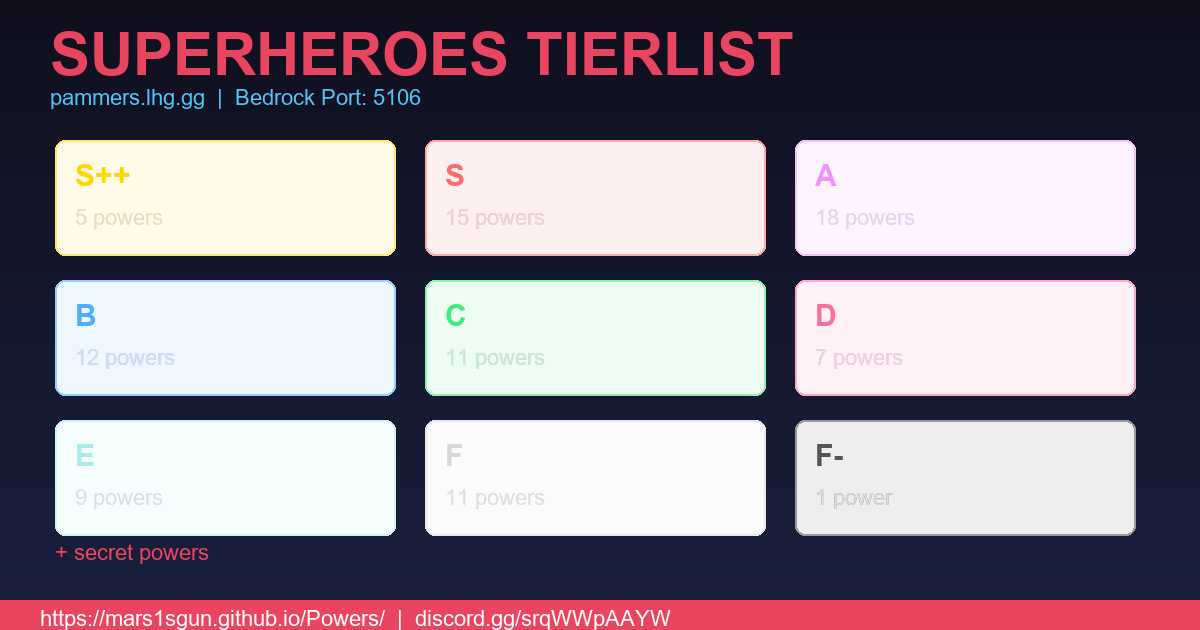
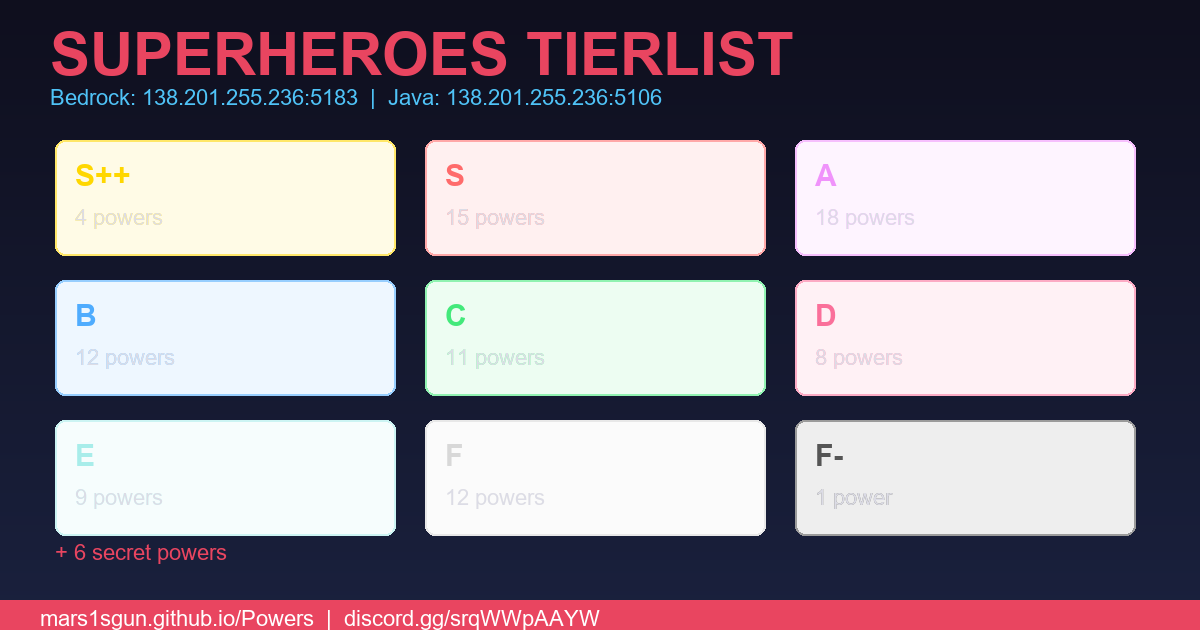
Auto-update from bot

diff --git a/index.html b/index.html
@@ -77,7 +77,7 @@ footer a{color:#b388ff;text-decoration:underline}
 <header>
 <h1>SUPERHEROES TIERLIST</h1>
 <p>All powers ranked — click a tier to expand/collapse</p>
-<p style="margin-top:.5rem;font-size:.9rem;color:#4fc3f7">Bedrock: <b>pammers.lhg.gg</b> port <b>5106</b> &nbsp;|&nbsp; Java: <b>pammers.lhg.gg:5106</b></p>
+<p style="margin-top:.5rem;font-size:.9rem;color:#4fc3f7">Bedrock: <b>138.201.255.236</b> port <b>5183</b> &nbsp;|&nbsp; Java: <b>138.201.255.236:5106</b></p>
 </header>
 <div class="container" id="app"></div>
 <footer>Built by 1sGun &middot; join the discord <a href="https://discord.gg/srqWWpAAYW" target="_blank">https://discord.gg/srqWWpAAYW</a></footer>
@@ -85,11 +85,10 @@ footer a{color:#b388ff;text-decoration:underline}
 
 const TIERS = [
   { id: "spp", label: "S++", item: "DEEPSLATE_EMERALD_ORE", heroes: [
-    { name: "Tank", desc: "Reinforce yourself and repair all your gear.", howto: "Sneak (120s cd)", effects: "Resistance III, Absorption III, full repair", obtain: "Craft S++ PowerShard (8 amethyst + Deepslate Emerald Ore) & right-click to reroll.", chance: "36.4%" },
-    { name: "Timeweaver", desc: "Stop time and teleport through space.", howto: "Left-click (5s cd) / Sneak (60s cd)", effects: "Teleport 30 blocks, Time Stop 15s", obtain: "Craft S++ PowerShard (8 amethyst + Deepslate Emerald Ore) & right-click to reroll.", chance: "9.1%" },
-    { name: "Swiper", desc: "Shift-click a player to steal their power for 60s! S++ tier.", howto: "Sneak + right-click target player (180s cd, 120s with TempU)", effects: "Steal target's hero (60s), target becomes Powerless. Reverts after expiry.", obtain: "Craft S++ PowerShard (8 amethyst + Deepslate Emerald Ore) & right-click to reroll.", chance: "9.1%" },
-    { name: "Airbender", desc: "Master of the skies! Infinite double jump, no fall damage, wind powers.", howto: "Infinite double jump (space mid-air), no fall damage. Sprint for wind boost. Right-click Stick: Air Blast (1s) / Tornado (20s) / Wind Shield (15s). TempU: +Airburst stick, halved cooldowns, bigger/longer tornado", effects: "N/A", obtain: "Craft S++ PowerShard (8 amethyst + Deepslate Emerald Ore) & right-click to reroll.", chance: "27.3%" },
-    { name: "Ichigo", desc: "You are Ichigo Kurosaki, a Soul Reaper from Karakura Town!", howto: "Zangetsu Stick: RC=slash, Sneak+RC=Getsuga Tensho. Hollowfication Stick: RC=toggle (hunger drain). Bankai Stick: RC=activate. RC Cero while Hollow. Horn of Salvation, True Bankai, Final Getsuga Tensho. All forms have hunger drain & timed duration.", effects: "Zangetsu melee (8 dmg), Getsuga Tensho projectile (10 dmg), Hollowfication (Speed+Strength), Bankai (more dmg+speed), Horn (Strength V+Resistance IV), True Bankai (double reach), FGT (half enemy HP). TempU: halved hunger drain, extended forms.", obtain: "Craft S++ PowerShard (8 amethyst + Deepslate Emerald Ore) & right-click to reroll.", chance: "18.2%" },
+    { name: "Tank", desc: "Reinforce yourself and repair all your gear.", howto: "Sneak (120s cd)", effects: "Resistance III, Absorption III, full repair", obtain: "Craft S++ PowerShard (8 amethyst + Deepslate Emerald Ore) & right-click to reroll.", chance: "25.0%" },
+    { name: "Timeweaver", desc: "Stop time and teleport through space.", howto: "Left-click (5s cd) / Sneak (60s cd)", effects: "Teleport 30 blocks, Time Stop 15s", obtain: "Craft S++ PowerShard (8 amethyst + Deepslate Emerald Ore) & right-click to reroll.", chance: "25.0%" },
+    { name: "Swiper", desc: "Shift-click a player to steal their power for 60s! S++ tier.", howto: "Sneak + right-click target player (180s cd, 120s with TempU)", effects: "Steal target's hero (60s), target becomes Powerless. Reverts after expiry.", obtain: "Craft S++ PowerShard (8 amethyst + Deepslate Emerald Ore) & right-click to reroll.", chance: "25.0%" },
+    { name: "Airbender", desc: "Master of the skies! Infinite double jump, no fall damage, wind powers.", howto: "Infinite double jump (space mid-air), no fall damage. Sprint for wind boost. Right-click Stick: Air Blast (1s) / Tornado (20s) / Wind Shield (15s). TempU: +Airburst stick, halved cooldowns, bigger/longer tornado", effects: "N/A", obtain: "Craft S++ PowerShard (8 amethyst + Deepslate Emerald Ore) & right-click to reroll.", chance: "25.0%" },
   ]},
   { id: "s", label: "S", item: "NETHER_STAR", heroes: [
     { name: "Homelander", desc: "Fly through the skies and blast foes with laser vision and fireballs!", howto: "Jetpack (hold jump) + Right-click Redstone Block", effects: "Flight, Speed II, Strength II, Resistance II, Laser (6 dmg), Fireballs, X-ray", obtain: "Craft Legendary PowerShard (8 amethyst + Nether Star) & right-click to reroll.", chance: "3.6%" },
@@ -125,8 +124,8 @@ const TIERS = [
     { name: "Flashbang", desc: "Blind nearby players.", howto: "Sneak (60s cd)", effects: "AoE Blindness (20 blocks)", obtain: "Craft A PowerShard (8 amethyst + Diamond Block) & right-click to reroll.", chance: "10.0%" },
     { name: "Benson", desc: "Fly like Tinkerbell! Disabled for 5s on hit or when you hit someone.", howto: "Passive", effects: "Flight, disabled by Slowness II + Weakness V + Blindness for 5s on PvP.", obtain: "Craft A PowerShard (8 amethyst + Diamond Block) & right-click to reroll.", chance: "5.3%" },
     { name: "TheCrippler", desc: "Sneak to disable all powers within 15 blocks for 60s! A tier.", howto: "Sneak to trigger (180s cd, 120s with TempU)", effects: "AoE 15 blocks: all players set to Powerless (60s). Reverts after expiry.", obtain: "Craft A PowerShard (8 amethyst + Diamond Block) & right-click to reroll.", chance: "5.3%" },
-    { name: "TheCombo", desc: "Hit AND get hit to stack +atk and -def — 1s window!", howto: "Passive — hitting and getting hit builds combo", effects: "+10% atk per hit, -10% def per hit taken (1s window). TempU: 0.5s window, 2x multiplier.", obtain: "Craft A PowerShard (8 amethyst + Diamond Block) & right-click to reroll.", chance: "5.3%" },
-    { name: "Sacrifice", desc: "Kill to heal — and convert items into totems!", howto: "Passive — kills heal below 20 HP. Sneak with item: sacrifice 1 for 1 totem (60s cd, 30s TempU).", effects: "Kill heal, item-to-totem conversion. TempU: halved cooldown.", obtain: "Craft A PowerShard (8 amethyst + Diamond Block) & right-click to reroll.", chance: "5.3%" },
+    { name: "TheCombo", desc: "Hit AND get hit to stack both atk and def - 1s window!", howto: "Passive - hitting AND getting hit builds combo for both +atk and -def", effects: "+atk per hit, -def per hit taken (1s window). TempU: 0.5s, 2x multiplier.", obtain: "Craft A PowerShard (8 amethyst + Diamond Block) & right-click to reroll.", chance: "5.3%" },
+    { name: "Sacrifice", desc: "Kill to heal - convert items into totems!", howto: "Passive - kills heal below 20 HP. Sneak with item to sacrifice for totem (60s cd, 30s TempU).", effects: "Kill heal below 20 HP. Sneak with item = 1 totem (60s cd, 30s TempU).", obtain: "Craft A PowerShard (8 amethyst + Diamond Block) & right-click to reroll.", chance: "5.3%" },
   ]},
   { id: "b", label: "B", item: "GOLD_BLOCK", heroes: [
     { name: "SizeShift", desc: "Shrink or grow at will!", howto: "Right-click Amethyst Shard to shrink — Right-click Emerald to grow (30s duration)", effects: "Shrink: 0.25x scale, fast speed/attacks. Grow: 1.5x scale, +6 dmg, slow speed/attacks", obtain: "Craft B PowerShard (8 amethyst + Gold Block) & right-click to reroll.", chance: "8.5%" },
@@ -139,8 +138,8 @@ const TIERS = [
     { name: "GravitySucker", desc: "Control gravity.", howto: "Passive sneaking", effects: "Levitation, Slow falling, Repulse", obtain: "Craft B PowerShard (8 amethyst + Gold Block) & right-click to reroll.", chance: "8.5%" },
     { name: "Sucker", desc: "You suck everything.", howto: "Sneak", effects: "Attract (-0.8x, 3.4 radius)", obtain: "Craft B PowerShard (8 amethyst + Gold Block) & right-click to reroll.", chance: "16.0%" },
     { name: "Bubble", desc: "You have a bubble.", howto: "Sneak", effects: "Repulse (2x, 3.4 radius)", obtain: "Craft B PowerShard (8 amethyst + Gold Block) & right-click to reroll.", chance: "16.0%" },
-    { name: "ComboDefence", desc: "Get hit rapidly to stack endurance + exponential window!", howto: "Passive — getting hit within 1s builds combo", effects: "-10% damage reduction per hit (1s window). TempU: 0.5s window, 2x multiplier. Window shrinks exponentially past 10.", obtain: "Craft B PowerShard (8 amethyst + Gold Block) & right-click to reroll.", chance: "8.5%" },
-    { name: "ComboOffence", desc: "Hit rapidly to stack strength + exponential window!", howto: "Passive — hitting within 1s builds combo", effects: "+10% damage per hit (1s window). TempU: 0.5s window, 2x multiplier. Window shrinks exponentially past 10.", obtain: "Craft B PowerShard (8 amethyst + Gold Block) & right-click to reroll.", chance: "8.5%" },
+    { name: "ComboDefence", desc: "Get hit rapidly to stack endurance - 1s combo window!", howto: "Passive - get hit within 1s to stack Resistance + Absorption", effects: "Resistance + Absorption per hit (1s window). TempU: 0.5s window, 2x amp per stack.", obtain: "Craft B PowerShard (8 amethyst + Gold Block) & right-click to reroll.", chance: "8.5%" },
+    { name: "ComboOffence", desc: "Hit rapidly to stack strength - 1s combo window!", howto: "Passive - hit targets within 1s to stack Strength", effects: "Strength per hit (1s window). TempU: 0.5s window, 2x amp per stack.", obtain: "Craft B PowerShard (8 amethyst + Gold Block) & right-click to reroll.", chance: "8.5%" },
   ]},
   { id: "c", label: "C", item: "BOOKSHELF", heroes: [
     { name: "Frozone", desc: "Walk on water, slow others.", howto: "Passive", effects: "Water walk, Slowness aura", obtain: "Craft C PowerShard (8 amethyst + Bookshelf) & right-click to reroll.", chance: "4.3%" },
@@ -152,17 +151,18 @@ const TIERS = [
     { name: "DrCloak", desc: "Not attacked while disguised.", howto: "Sneak (30s cd)", effects: "10s invisibility, mobs lose target", obtain: "Craft C PowerShard (8 amethyst + Bookshelf) & right-click to reroll.", chance: "8.5%" },
     { name: "GravityGuy", desc: "Sneak to rise, let go to fall.", howto: "Sneak to rise", effects: "Levitation II, Slow falling", obtain: "Craft C PowerShard (8 amethyst + Bookshelf) & right-click to reroll.", chance: "16.0%" },
     { name: "Aerosurfer", desc: "Create platforms.", howto: "Sneak to create platforms", effects: "Glass platforms, Speed II", obtain: "Craft C PowerShard (8 amethyst + Bookshelf) & right-click to reroll.", chance: "16.0%" },
-    { name: "Coinflip", desc: "Sneak every 30s for 3 random effects — all good or all bad!", howto: "Sneak to flip (30s cd)", effects: "3 good OR 3 bad potion effects (15s, lvl 1). TempU: lvl 2.", obtain: "Craft C PowerShard (8 amethyst + Bookshelf) & right-click to reroll.", chance: "8.5%" },
-    { name: "Rabbit", desc: "Speed, jump, stomp, and burrow!", howto: "Passive: Speed II + Jump II + no fall damage. Landing = AoE stomp + auto-burrow (invis+invuln). Sneak while burrowed to surface early. TempU: sneak for Super Jump XX (20s, 10s cd).", effects: "Speed II, Jump II, no fall damage. Stomp 0.3 dmg/block. Burrow 1.5 ticks/block. Sneak to unburrow early. TempU: 1.5x + Super Jump (sneak, 10s cd).", obtain: "Craft C PowerShard (8 amethyst + Bookshelf) & right-click to reroll.", chance: "8.5%" },
+    { name: "Coinflip", desc: "Sneak every 30s for 3 random effects - all good or all bad!", howto: "Sneak to flip (30s cd) - 3 random effects for 15s", effects: "3 random potion effects (15s, lvl 1). TempU: lvl 2.", obtain: "Craft C PowerShard (8 amethyst + Bookshelf) & right-click to reroll.", chance: "8.5%" },
+    { name: "Rabbit", desc: "Speed II + Jump II + no fall damage - auto-burrow on landing! TempU: Super Jump (sneak).", howto: "Passive: Speed II + Jump II + no fall damage. Landing = AoE stomp + auto-burrow. Sneak to unburrow early. TempU: Super Jump (sneak 10s cd).", effects: "Speed II, Jump II, no fall damage. Stomp + auto-burrow on landing. Sneak to unburrow early. TempU: 1.5x + Super Jump (sneak 10s cd).", obtain: "Craft C PowerShard (8 amethyst + Bookshelf) & right-click to reroll.", chance: "8.5%" },
   ]},
   { id: "d", label: "D", item: "BONE_BLOCK", heroes: [
-    { name: "Floral", desc: "Create and consume flowers.", howto: "Look at ground / Right-click", effects: "11 flower types with buffs", obtain: "Craft D PowerShard (8 amethyst + Bone Block) & right-click to reroll.", chance: "9.2%" },
-    { name: "Aquaman", desc: "Walk underwater.", howto: "Passive", effects: "Water breathing, water walking", obtain: "Craft D PowerShard (8 amethyst + Bone Block) & right-click to reroll.", chance: "9.2%" },
-    { name: "LavaWalker", desc: "Walk on lava.", howto: "Passive", effects: "Lava walk, fire heals, fire immunity", obtain: "Craft D PowerShard (8 amethyst + Bone Block) & right-click to reroll.", chance: "9.2%" },
-    { name: "Pyromaniac", desc: "Create fire trails.", howto: "Walk", effects: "Fire trail, fire/lava immunity", obtain: "Craft D PowerShard (8 amethyst + Bone Block) & right-click to reroll.", chance: "9.2%" },
-    { name: "Chicken", desc: "You\'re a chicken.", howto: "Passive", effects: "Lay eggs, Speed III, Slow falling", obtain: "Craft D PowerShard (8 amethyst + Bone Block) & right-click to reroll.", chance: "28.7%" },
-    { name: "Dolphin", desc: "Swim at great speeds!", howto: "Passive / Eat Ink Sac", effects: "Dolphins Grace V, Water breathing", obtain: "Craft D PowerShard (8 amethyst + Bone Block) & right-click to reroll.", chance: "17.2%" },
-    { name: "Tinkerbell", desc: "You are Tinkerbell!", howto: "Passive", effects: "Flight, Tiny (0.25x)", obtain: "Craft D PowerShard (8 amethyst + Bone Block) & right-click to reroll.", chance: "17.2%" },
+    { name: "Floral", desc: "Create and consume flowers.", howto: "Look at ground / Right-click", effects: "11 flower types with buffs", obtain: "Craft D PowerShard (8 amethyst + Bone Block) & right-click to reroll.", chance: "7.1%" },
+    { name: "Aquaman", desc: "Walk underwater.", howto: "Passive", effects: "Water breathing, water walking", obtain: "Craft D PowerShard (8 amethyst + Bone Block) & right-click to reroll.", chance: "7.1%" },
+    { name: "LavaWalker", desc: "Walk on lava.", howto: "Passive", effects: "Lava walk, fire heals, fire immunity", obtain: "Craft D PowerShard (8 amethyst + Bone Block) & right-click to reroll.", chance: "7.1%" },
+    { name: "Pyromaniac", desc: "Create fire trails.", howto: "Walk", effects: "Fire trail, fire/lava immunity", obtain: "Craft D PowerShard (8 amethyst + Bone Block) & right-click to reroll.", chance: "7.1%" },
+    { name: "Chicken", desc: "You\'re a chicken.", howto: "Passive", effects: "Lay eggs, Speed III, Slow falling", obtain: "Craft D PowerShard (8 amethyst + Bone Block) & right-click to reroll.", chance: "22.3%" },
+    { name: "Pig", desc: "You\'re a pig", howto: "N/A", effects: "N/A", obtain: "", chance: "22.3%" },
+    { name: "Dolphin", desc: "Swim at great speeds!", howto: "Passive / Eat Ink Sac", effects: "Dolphins Grace V, Water breathing", obtain: "Craft D PowerShard (8 amethyst + Bone Block) & right-click to reroll.", chance: "13.4%" },
+    { name: "Tinkerbell", desc: "You are Tinkerbell!", howto: "Passive", effects: "Flight, Tiny (0.25x)", obtain: "Craft D PowerShard (8 amethyst + Bone Block) & right-click to reroll.", chance: "13.4%" },
   ]},
   { id: "e", label: "E", item: "IRON_BLOCK", heroes: [
     { name: "Spartan", desc: "Unbreakable shield + arrows.", howto: "Right-click Arrow", effects: "Unbreakable shield, infinite arrows (3 dmg)", obtain: "Craft E PowerShard (8 amethyst + Iron Block) & right-click to reroll.", chance: "7.1%" },
@@ -176,17 +176,18 @@ const TIERS = [
     { name: "Revealer", desc: "Reveal nearby enemies.", howto: "Sneak (60s cd)", effects: "Glowing on all enemies (20 blocks)", obtain: "Craft E PowerShard (8 amethyst + Iron Block) & right-click to reroll.", chance: "7.1%" },
   ]},
   { id: "f", label: "F", item: "ZOMBIE_HEAD", heroes: [
-    { name: "Creeper", desc: "You\'re a creeper.", howto: "Right-click to explode", effects: "Explosion (power 1), Remote detonation", obtain: "Craft F PowerShard (8 amethyst + Zombie Head) & right-click to reroll.", chance: "4.5%" },
-    { name: "Enderman", desc: "Teleport by punching.", howto: "Left-click (10s cd)", effects: "Teleport 30 blocks, OHKO Endermen", obtain: "Craft F PowerShard (8 amethyst + Zombie Head) & right-click to reroll.", chance: "9.1%" },
-    { name: "Zombie", desc: "You are a zombie!", howto: "Passive", effects: "Resistance II, knockback, burns in sun", obtain: "Craft F PowerShard (8 amethyst + Zombie Head) & right-click to reroll.", chance: "9.1%" },
-    { name: "Dragon", desc: "Throw fireballs.", howto: "Right-click (30s cd)", effects: "Dragon fireballs", obtain: "Craft F PowerShard (8 amethyst + Zombie Head) & right-click to reroll.", chance: "4.5%" },
-    { name: "Dragon2", desc: "Suck and blow everyone!", howto: "Right-click (2s cd)", effects: "Levitation X, Repulse, Wind Charges", obtain: "Craft F PowerShard (8 amethyst + Zombie Head) & right-click to reroll.", chance: "4.5%" },
-    { name: "Evoker", desc: "Summon vexes that follow and attack for you!", howto: "Right-click Fang Horn for straight fangs (10s cd) — Right-click Vex Horn for 8 vexes (30s cd) — Auto-totem at 10% HP", effects: "5 straight fangs in a line, 8 following vexes (30s lifetime), vexes attack what you hit, auto-totem at 10% HP", obtain: "Craft F PowerShard (8 amethyst + Zombie Head) & right-click to reroll.", chance: "6.8%" },
-    { name: "Slime", desc: "Bounce along the floor.", howto: "Passive", effects: "Bouncy, No fall damage", obtain: "Craft F PowerShard (8 amethyst + Zombie Head) & right-click to reroll.", chance: "17.0%" },
-    { name: "IronGolem", desc: "You\'re an iron golem.", howto: "Passive", effects: "Iron ingots, Resistance II, Slowness II", obtain: "Craft F PowerShard (8 amethyst + Zombie Head) & right-click to reroll.", chance: "9.1%" },
-    { name: "Phantom", desc: "Haunt the skies! Burn in sunlight but rain fire from above.", howto: "Jetpack (hold jump) — Sneak for Dive Bomb (15s cd)", effects: "Jetpack flight, Speed II + Strength I on Dive Bomb, set enemies on fire, phantom membranes, night vision, no fall damage.", obtain: "Craft F PowerShard (8 amethyst + Zombie Head) & right-click to reroll.", chance: "11.4%" },
-    { name: "Shulker", desc: "Shoot levitation bullets and hide in your shell!", howto: "Right-click SHULKER_SHELL to shoot (3s cd) — Sneak for Shell Guard (10s cd)", effects: "Shulker bullet projectile (Levitation), Shell Guard (Resistance III + Absorption III), no fall damage.", obtain: "Craft F PowerShard (8 amethyst + Zombie Head) & right-click to reroll.", chance: "6.8%" },
-    { name: "Snowman", desc: "Create snow trails!", howto: "Walk / Throw snowballs", effects: "Snow trail, infinite snowballs", obtain: "Craft F PowerShard (8 amethyst + Zombie Head) & right-click to reroll.", chance: "17.0%" },
+    { name: "Creeper", desc: "You\'re a creeper.", howto: "Right-click to explode", effects: "Explosion (power 1), Remote detonation", obtain: "Craft F PowerShard (8 amethyst + Zombie Head) & right-click to reroll.", chance: "4.3%" },
+    { name: "Enderman", desc: "Teleport by punching.", howto: "Left-click (10s cd)", effects: "Teleport 30 blocks, OHKO Endermen", obtain: "Craft F PowerShard (8 amethyst + Zombie Head) & right-click to reroll.", chance: "8.7%" },
+    { name: "SkeletonKing", desc: "You lead an army of skeletons!", howto: "N/A", effects: "N/A", obtain: "", chance: "4.3%" },
+    { name: "Zombie", desc: "You are a zombie!", howto: "Passive", effects: "Resistance II, knockback, burns in sun", obtain: "Craft F PowerShard (8 amethyst + Zombie Head) & right-click to reroll.", chance: "8.7%" },
+    { name: "Dragon", desc: "Throw fireballs.", howto: "Right-click (30s cd)", effects: "Dragon fireballs", obtain: "Craft F PowerShard (8 amethyst + Zombie Head) & right-click to reroll.", chance: "4.3%" },
+    { name: "Dragon2", desc: "Suck and blow everyone!", howto: "Right-click (2s cd)", effects: "Levitation X, Repulse, Wind Charges", obtain: "Craft F PowerShard (8 amethyst + Zombie Head) & right-click to reroll.", chance: "4.3%" },
+    { name: "Evoker", desc: "Summon vexes that follow and attack for you!", howto: "Right-click Fang Horn for straight fangs (10s cd) — Right-click Vex Horn for 8 vexes (30s cd) — Auto-totem at 10% HP", effects: "5 straight fangs in a line, 8 following vexes (30s lifetime), vexes attack what you hit, auto-totem at 10% HP", obtain: "Craft F PowerShard (8 amethyst + Zombie Head) & right-click to reroll.", chance: "6.5%" },
+    { name: "Slime", desc: "Bounce along the floor.", howto: "Passive", effects: "Bouncy, No fall damage", obtain: "Craft F PowerShard (8 amethyst + Zombie Head) & right-click to reroll.", chance: "16.3%" },
+    { name: "IronGolem", desc: "You\'re an iron golem.", howto: "Passive", effects: "Iron ingots, Resistance II, Slowness II", obtain: "Craft F PowerShard (8 amethyst + Zombie Head) & right-click to reroll.", chance: "8.7%" },
+    { name: "Phantom", desc: "Haunt the skies! Burn in sunlight but rain fire from above.", howto: "Jetpack (hold jump) — Sneak for Dive Bomb (15s cd)", effects: "Jetpack flight, Speed II + Strength I on Dive Bomb, set enemies on fire, phantom membranes, night vision, no fall damage.", obtain: "Craft F PowerShard (8 amethyst + Zombie Head) & right-click to reroll.", chance: "10.9%" },
+    { name: "Shulker", desc: "Shoot levitation bullets and hide in your shell!", howto: "Right-click SHULKER_SHELL to shoot (3s cd) — Sneak for Shell Guard (10s cd)", effects: "Shulker bullet projectile (Levitation), Shell Guard (Resistance III + Absorption III), no fall damage.", obtain: "Craft F PowerShard (8 amethyst + Zombie Head) & right-click to reroll.", chance: "6.5%" },
+    { name: "Snowman", desc: "Create snow trails!", howto: "Walk / Throw snowballs", effects: "Snow trail, infinite snowballs", obtain: "Craft F PowerShard (8 amethyst + Zombie Head) & right-click to reroll.", chance: "16.3%" },
   ]},
   { id: "f_minus", label: "F-", item: "COAL_BLOCK", heroes: [
     { name: "Powerless", desc: "You have no power.", howto: "N/A", effects: "Nothing. Normal player.", obtain: "Craft F- PowerShard (8 amethyst + Coal Block) & right-click to reroll.", chance: "100.0%" },
